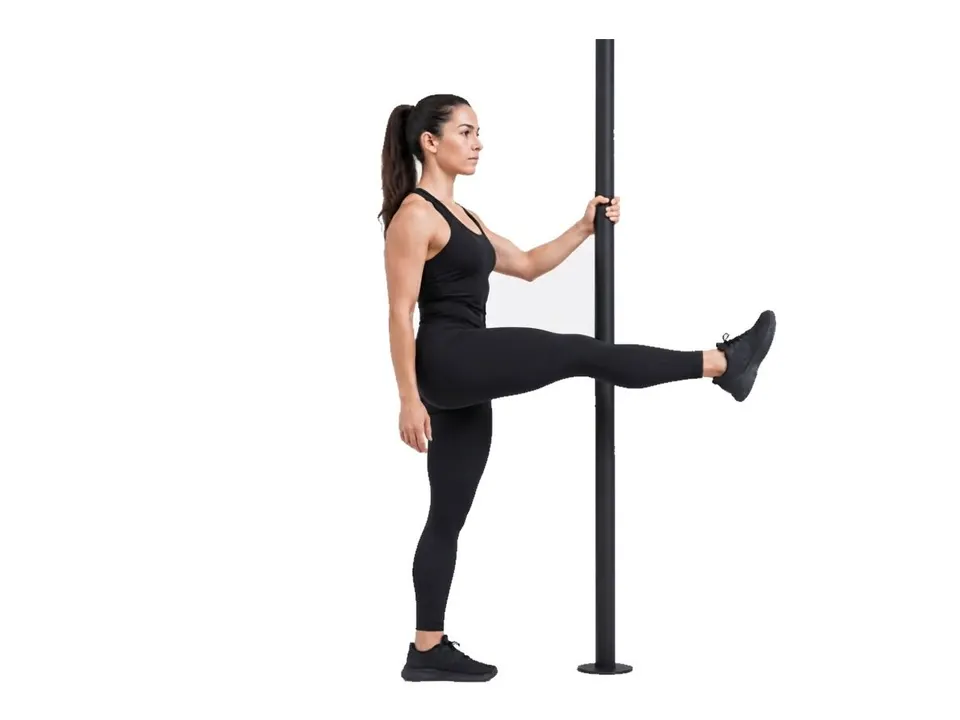
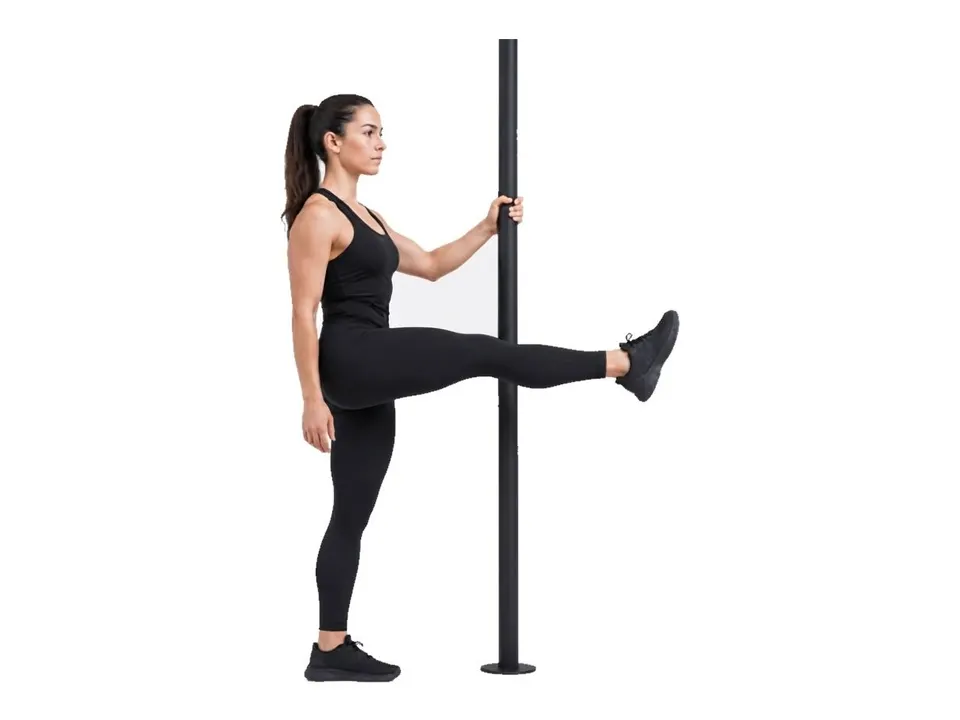
Keep incline walk and leg swings still: one frame has a grey patch the other lacks
A difference image of every shipped pair (still minus other) showed two artefacts a hard cut would blink: a grey
shadow under the incline-walk treadmill deck and a pale grey patch beside the leg-swing pole, each in one frame only.
Both move to STILL; their photos are back to main's. 43 moves loop.

Changed region(s): [[0.2812, 0.0306, 0.8125, 0.9472]]

diff --git a/src/data/exerciseMedia.ts b/src/data/exerciseMedia.ts
@@ -220,17 +220,17 @@ export const EXERCISE_PHOTOS: string[] = [
 export const EXERCISE_PHOTO_LOOPS: string[] = [
   'arabesque', 'arnold_press', 'ball_back_extension', 'ball_slam', 'band_monster_walk', 'bb_back_squat', 'bb_bench_press',
   'bb_hang_pull', 'bb_row', 'bb_sumo_deadlift', 'bike_climb', 'cat_cow', 'db_overhead_triceps', 'db_pullover_bridge',
-  'double_under', 'glute_bridge', 'hip_thrust', 'incline_walk', 'jump_rope', 'kb_bottoms_up_press', 'kb_halo', 'kb_rdl',
-  'kb_suitcase_squat', 'kb_swing', 'kneeling_hip_thrust', 'landmine_lunge_press', 'lateral_lunge', 'leg_press',
-  'leg_swings', 'march_in_place', 'mountain_climber', 'one_arm_db_row', 'pallof_press_overhead', 'plank_shoulder_tap',
-  'rowing_machine', 'scapular_roll', 'shadow_boxing', 'ski_erg', 'sl_bridge_bench', 'sled_push', 'step_jack',
-  'straight_arm_pulldown', 'thread_the_needle', 'track_run', 'treadmill_push',
+  'double_under', 'glute_bridge', 'hip_thrust', 'jump_rope', 'kb_bottoms_up_press', 'kb_halo', 'kb_rdl', 'kb_suitcase_squat',
+  'kb_swing', 'kneeling_hip_thrust', 'landmine_lunge_press', 'lateral_lunge', 'leg_press', 'march_in_place',
+  'mountain_climber', 'one_arm_db_row', 'pallof_press_overhead', 'plank_shoulder_tap', 'rowing_machine', 'scapular_roll',
+  'shadow_boxing', 'ski_erg', 'sl_bridge_bench', 'sled_push', 'step_jack', 'straight_arm_pulldown', 'thread_the_needle',
+  'track_run', 'treadmill_push',
 ]
 
 /** Quick, repeating loops (steps, strides, rope turns, punches) swap faster than a lift's steady rep. */
 export const EXERCISE_PHOTO_FAST: string[] = [
-  'bike_climb', 'double_under', 'incline_walk', 'jump_rope', 'march_in_place', 'mountain_climber', 'shadow_boxing',
-  'sled_push', 'step_jack', 'track_run', 'treadmill_push',
+  'bike_climb', 'double_under', 'jump_rope', 'march_in_place', 'mountain_climber', 'shadow_boxing', 'sled_push',
+  'step_jack', 'track_run', 'treadmill_push',
 ]
 
 /** How long each photo of a loop shows, in ms. */

diff --git a/README.md b/README.md
@@ -139,7 +139,7 @@ Design rules live in `docs/DESIGN.md` (section 10 is the current direction).
 - **Nothing is bundled.** Photos load on demand from `https://raw.githubusercontent.com/yuhonas/free-exercise-db/main/exercises/<ID>/0.jpg` and `/1.jpg` (start and end position), lazily, only when an exercise is on screen. The service worker caches them (`exercise-media`, cache-first, 90 days, up to 400 files — see `runtimeCaching` in `vite.config.ts`), so a workout you have opened once keeps its photos offline. The request tells GitHub only which exercise image was fetched; no personal data is sent.
 - **Mapping.** `src/data/exerciseMedia.ts` maps our exercise ids to dataset folder ids (`EXERCISE_PHOTO_IDS`). Every entry was checked against the dataset index and both image URLs (HTTP 200) before it was added; 74 of the 84 library exercises are mapped. A few photos use different equipment from our variant (barbell hip thrust, kettlebell goblet squat) and may show a fuller range than our knee-friendly versions: the photo illustrates the movement, the written instructions set the range.
 - **Exercise illustrations** come from [Workout Guide](https://github.com/bryllim/workout-guide) by [Bryl Lim](https://bryllim.com), built on pose artwork from [Everkinetic](https://github.com/everkinetic/data). The artwork is licensed [CC BY-SA 4.0](https://creativecommons.org/licenses/by-sa/4.0/) (the repository's code is MIT); the exercise screen credits it on a line under the picture. They fill the 22 exercises that have neither an animation nor a photo (`EXERCISE_ART_FRAMES` in `src/data/exerciseMedia.ts`), and they replace the animation and photo for the moves of the Blueprint week, so a whole session reads in one style (`EXERCISE_ART_LOOPS`, which flips through two to four frames of the movement on cards and in Focus Mode). Each entry names one of the exercise's three frames, picked by eye to match our variant: the tucked hollow hold and tuck L-sit use the tucked frame, not the full version. The swims, band moves drawn with other equipment and the range-limited moves are left out. **Change:** the white line art is shown inverted to near-black ink on the white media tile. The SVGs load on demand from `raw.githubusercontent.com/bryllim/workout-guide/<pinned commit>/…`, are cached by the service worker (`exercise-art`, cache-first, 90 days, up to 100 files) and are never copied into this repo.
-- **Exercise photos** (the BFT week) are AI-generated: one woman in one plain studio. First drafts came from Canva's image generator; the frames were then redrawn at 1200 px with Gemini image models through OpenRouter (`google/gemini-3.1-flash-lite-image`), from the drafts, reference frames and text prompts, two frames per move (start and end; one for the Sunday stretches), and their backgrounds whitened. Each frame was checked by eye. `scripts/moves/build.mjs` takes each move's clearest frame and writes one 4:3 picture (`public/moves/photo/<id>.webp`, about 12 KB) and a square crop on the person for thumbnails (`public/moves/thumb/<id>.webp`); both are precached so they work offline. `EXERCISE_PHOTOS` in `src/data/exerciseMedia.ts` lists them, and they replace every other picture of those moves. 45 moves loop: `public/moves/photo/<id>-b.webp` is the other end of the movement in the same crop, swapped in with a hard cut (never a fade) on cards and in Focus Mode, faster for steps and strides (`EXERCISE_PHOTO_LOOPS`, `EXERCISE_PHOTO_FAST`); thumbnails and reduced motion stay still. Every pair was checked by eye against the exercise, and `STILL` in the build script says why the other two-frame moves stay one picture. No BFT photo, video or logo was used. The exercise screen says "Photo: AI-generated".
+- **Exercise photos** (the BFT week) are AI-generated: one woman in one plain studio. First drafts came from Canva's image generator; the frames were then redrawn at 1200 px with Gemini image models through OpenRouter (`google/gemini-3.1-flash-lite-image`), from the drafts, reference frames and text prompts, two frames per move (start and end; one for the Sunday stretches), and their backgrounds whitened. Each frame was checked by eye. `scripts/moves/build.mjs` takes each move's clearest frame and writes one 4:3 picture (`public/moves/photo/<id>.webp`, about 12 KB) and a square crop on the person for thumbnails (`public/moves/thumb/<id>.webp`); both are precached so they work offline. `EXERCISE_PHOTOS` in `src/data/exerciseMedia.ts` lists them, and they replace every other picture of those moves. 43 moves loop: `public/moves/photo/<id>-b.webp` is the other end of the movement in the same crop, swapped in with a hard cut (never a fade) on cards and in Focus Mode, faster for steps and strides (`EXERCISE_PHOTO_LOOPS`, `EXERCISE_PHOTO_FAST`); thumbnails and reduced motion stay still. Every pair was checked by eye against the exercise, and `STILL` in the build script says why the other two-frame moves stay one picture. No BFT photo, video or logo was used. The exercise screen says "Photo: AI-generated".
 - **Fallback.** Exercises with no animation, photo or illustration (single-leg press, suitcase carry and the three swims, among others), and any picture that fails to load (offline on first view, GitHub unreachable), show a tinted tile with the app's own `MuscleMap` illustration instead: an inline-SVG front/back figure with primary muscles in the pillar hue and secondary muscles at 40%. No layout shift, no broken-image icon.
 - **Illustrations and icons.** The muscle map and the empty-state line illustrations are original inline SVG drawn for this app. Icons are [lucide](https://lucide.dev) (ISC licence).
 
